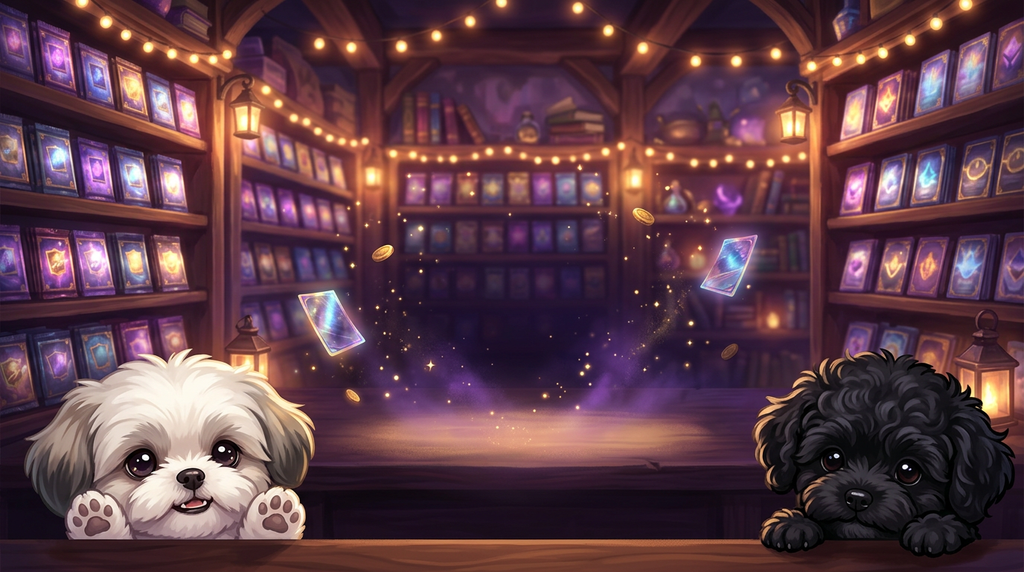
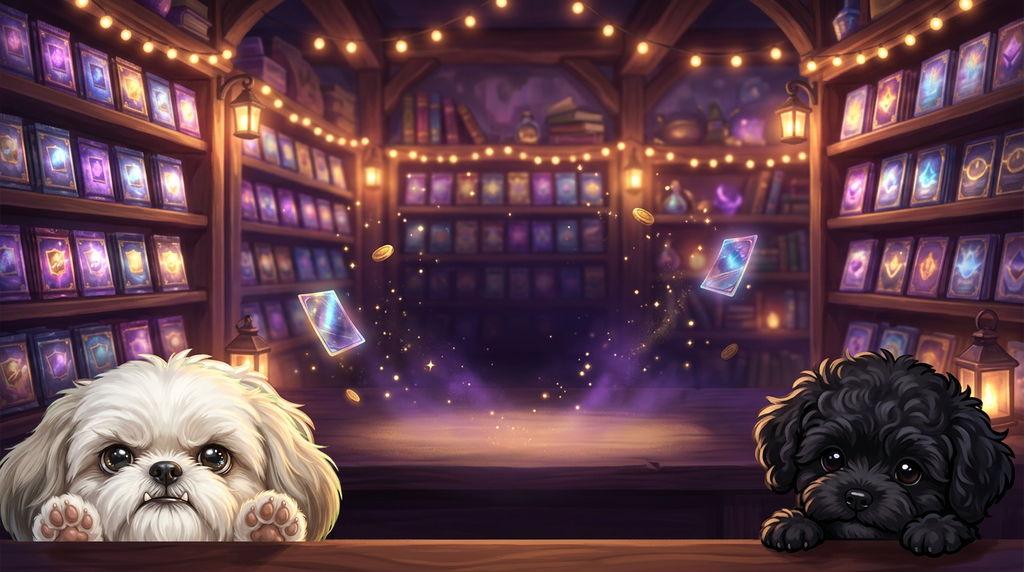
Opening backdrop: Pish a little grumpy with his underbite; music at 0.1
The backdrop's Pish is repainted (a new painterly Pish with furrowed brows
and his underbite laid over the old one, the counter strip back on top);
the rest of the painting is unchanged. Opening music volume 0.06 -> 0.1,
the owner's number.

Changed region(s): [[0.0, 0.6241, 0.3438, 0.951]]

diff --git a/DESIGN.md b/DESIGN.md
@@ -576,6 +576,7 @@ Epic in M" (player attributes PityLegendary / PityEpic); the odds panel and the 
   client-only parts right above the player while it shows (`Util/OpeningStage`, `Util/StageSpot`; see the binder's
   stage note in 10.6; far away at `PackOpening.STAGE_POSITION` otherwise): behind it Pish and Chikin's card shop
   at night, the two peeking over the counter (owner's pick A 2026-11-10, "connect every element to our core loop";
+  Pish repainted a little grumpy with his underbite, as he is;
   `PackOpening.BACKDROP.IMAGE`, `assets/ui/opening`, Figma-generated; a little darker, darker still behind the
   cards, its sides fading to near-black on wide screens), a warm key light and a blue rim light, and a Scriptable camera (FOV 40, 8 studs back) with
   bloom, a colour grade that dims for big pulls and a depth-of-field blur for the push-ins; letterbox bars and a
@@ -645,7 +646,7 @@ Epic in M" (player attributes PityLegendary / PityEpic); the odds panel and the 
   while the card is alive; the results swipe in per landing card and end on a bright UI ding (PSE "Synth Sparkle Tone
   High Pitch Bell Tone Ding 4"): the lineup's sounds are never the boss victory's (owner 2026-11-10: it sounded like
   killing a boss; `tests/OpeningSounds`). **Music**: the opening has its own music (`Music.OPENING`, crossfading in from
-  wherever you are and back out, through the leveler, quiet at 0.06; owner 2026-11-10: "change the music on this
+  wherever you are and back out, through the leveler, at 0.1, the owner's number; owner 2026-11-10: "change the music on this
   screen. too plain"): each opening plays the next of three APM pieces, looping while it's up ("Magic and Mayhem",
   "Enchanted Butterflies", "Mischievous Elves"; `rotate = "visit"`, `MusicRules.visitTrack`; owner: "so that when
   players open lots of pack its not the same music always"); `/music opening <n> [volume]` plays any of the six. Most come from Roblox's licensed libraries (Pro Sound Effects,
